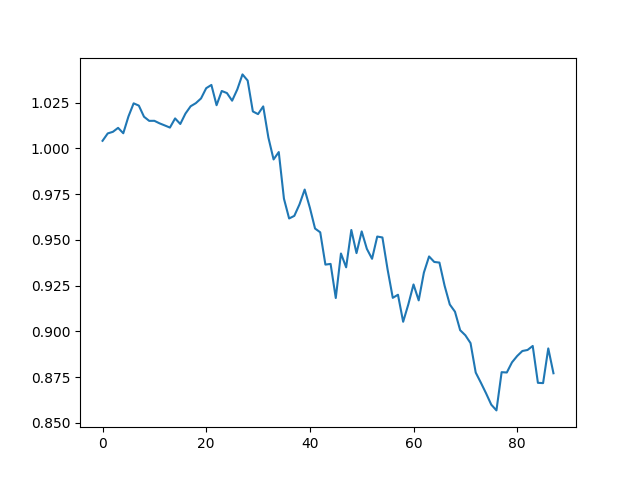
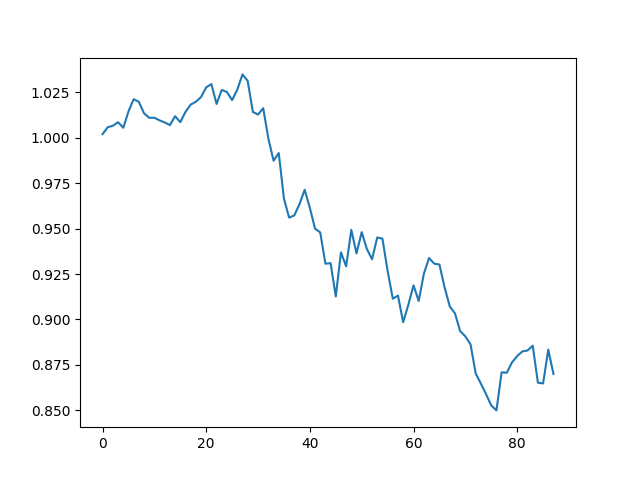
refactored

diff --git a/environment/stock_trading_env.py b/environment/stock_trading_env.py
@@ -13,8 +13,7 @@ class StockTradingEnv(Env):
     def __init__(self, online, trading_window_size,max_buffer_size,database_url,start_date,end_date,assets_number = 28,starting_cash = 1):
         self.seed()
         self.engine = create_engine(database_url)
-        self.commision_p = 0.0015 
-        self.commision_s = 0.0015  
+        self.commision_rate = 0.0025 
         self.assets_number = assets_number
         self.max_buffer_size = max_buffer_size
         self.trading_window_size = trading_window_size
@@ -104,36 +103,27 @@ class StockTradingEnv(Env):
             self.history[key].append(value)
 
 
+    def calculate_after_commission(self,w1, w0, commission_rate):
+
+        mu0 = 1
+        mu1 = 1 - 2*commission_rate + commission_rate ** 2
+        while abs(mu1-mu0) > 1e-10:
+            mu0 = mu1
+            mu1 = (1 - commission_rate * w0[0] - (2 * commission_rate - commission_rate ** 2) * np.sum(np.maximum(w0[1:] - mu1*w1[1:], 0))) / (1 - commission_rate * w1[0])
+
+        return mu1
+
     def calculate_reward(self, stock_weights):
 
         y_t = np.concatenate(([1],self.trading_buffer[self.current_tick - 1][:,5].reshape(-1)), axis=0)
         
-        # Aprox mi
-        if not self.found_aprox_mi:
-            commision_weights = (y_t * stock_weights)/ np.dot(y_t, stock_weights)
-            #Only first mi aprox
-            if self.current_tick == self.trading_window_size + 1:
-                self.mi = self.commision_p * sum(abs(commision_weights-stock_weights)[1:])
-            
-            pos_sum = 0
-            for i in range(1,len(stock_weights)):
-                value = commision_weights[i] - self.mi * stock_weights[i]
-                if value > 0.0:
-                    pos_sum = pos_sum + value
-
-            new_mi = (1/(1- self.commision_p * stock_weights[0]))*(1 - self.commision_p * commision_weights[0] - (self.commision_s + self.commision_p - self.commision_s*self.commision_p)*pos_sum)
-        
-            #stop aprox if condition 
-            if abs(self.mi -new_mi ) < 0.0001:
-                self.found_aprox_mi = True
-
-            self.mi = new_mi
+        mi = self.calculate_after_commission(stock_weights,self.last_stock_weights,self.commision_rate)
 
         self.before = self.current_portfolio_value
-        self.x =  self.x * self.mi* np.dot(y_t,stock_weights)
+        self.x =  self.x * mi* np.dot(y_t,stock_weights)
         self.current_portfolio_value = self.starting_portfolio_value * self.x
 
-        return log(self.current_portfolio_value/self.before) 
+        return log(self.current_portfolio_value/self.starting_portfolio_value) 
 
     
     def get_current_portfolio_value(self):

diff --git a/agent/agent.py b/agent/agent.py
@@ -47,13 +47,13 @@ class Agent():
             adv =  rewards + self.gamma* q_next.clone().detach() - q_pred.clone().detach()
 
             critic_loss += torch.sum(adv*q_pred)
-            x = actions.clone().detach()
+            #x = actions.clone().detach()
 
-            mean,std  = torch.mean(x, dim=0), torch.std(x, dim = 0)
+            # mean,std  = torch.mean(x, dim=0), torch.std(x, dim = 0)
 
-            mean = torch.clip(mean, min = 1e-6, max = 60)
-            std = torch.clip(std,min = 1e-6,max = 30)
-            dist = Normal(mean,std)
+            # mean = torch.clip(mean, min = 1e-6, max = 60)
+            # std = torch.clip(std,min = 1e-6,max = 30)
+            # dist = Normal(mean,std)
             actor_loss += torch.mean(-1*torch.mul(torch.mean(torch.log(actions)),adv))
             #actor_loss += (dist.log_prob(actions).sum() * adv.clone().detach()).mean()
             #actor_loss += (actions.log().mean()*adv.detach()).mean()

diff --git a/main.py b/main.py
@@ -75,7 +75,7 @@ def get_args():
     parser.add_argument('--gnn_output_channels',type = int, default = 3, help = 'gnn output channels')
     parser.add_argument('--mem_size',type = int, default = 150, help = 'memory size')
     parser.add_argument('--sample_bias', type=float, default = 1e-5,help = 'sample bias')
-    parser.add_argument('--number_of_batches', type=int, default = 30, help = 'number of minibatches in agent learning')
+    parser.add_argument('--number_of_batches', type=int, default = 5, help = 'number of minibatches in agent learning')
 
     args = parser.parse_args()
 
